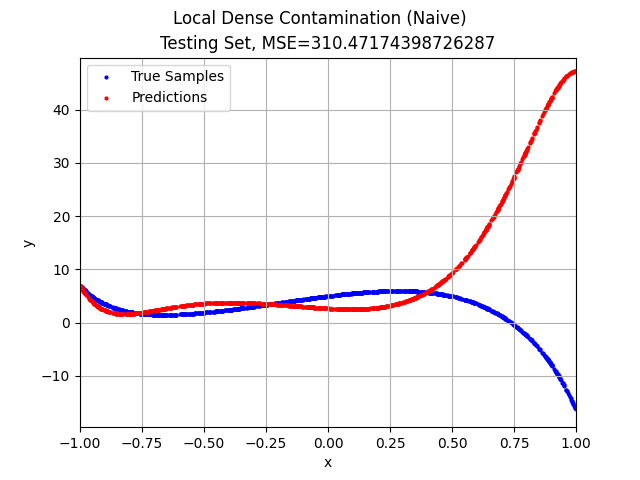
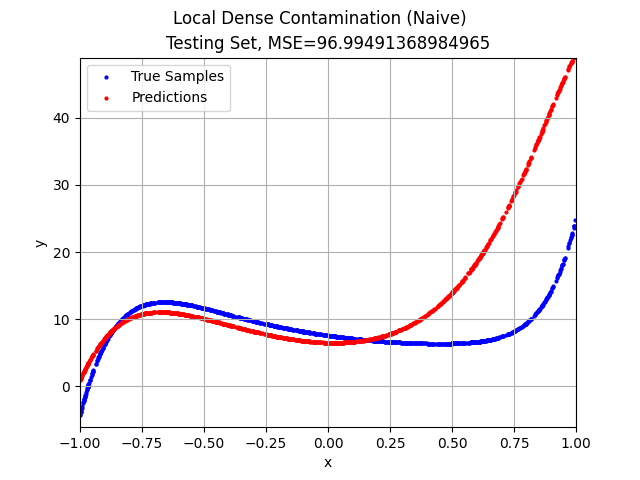
Segment Displacement Contamination

diff --git a/tests/segment_displacement_contamination.py b/tests/segment_displacement_contamination.py
@@ -10,17 +10,14 @@ rng = np.random.default_rng()
 training_size = 1000
 x_training, y_training = generate_random_samples(w, 1, training_size)
 contamination_size = ceil(epsilon * training_size)
-contamination_indices = rng.choice(training_size, contamination_size, False)
-x_contamination = rng.uniform(0.8, 1, contamination_size)
-y_contamination = rng.uniform(y_training.max() * 1.9 + y_training.min()
-                              * 1.1, y_training.max() * 2 + y_training.min(), contamination_size)
-x_training[contamination_indices] = x_contamination
-y_training[contamination_indices] = y_contamination
+contamination_indices = np.argsort(x_training)[int(
+    training_size * (1 - epsilon) * 0.5):int(training_size * (1 + epsilon) * 0.5)]
+y_training[contamination_indices] += y_training.max() - y_training.min()
 
 x_testing, y_testing = generate_random_samples(w, 0, 1000)
 
-test_name = "Local Dense Contamination"
-dirname = "local_dense_contamination"
+test_name = "Segment Displacement Contamination"
+dirname = "segment_displacement_contamination"
 markdown_str = f"| {test_name} |"
 markdown_str += test_naive(
     power,

diff --git a/tests/__main__.py b/tests/__main__.py
@@ -1,3 +1,4 @@
 import tests.random_contamination
 import tests.parallel_line_contamination
 import tests.local_dense_contamination
+import tests.segment_displacement_contamination

diff --git a/README.md b/README.md
@@ -39,6 +39,7 @@ For all the tests, we were fitting on 9-degree polynomials (with 10 mutually ind
 | Random Contamination | ![](test_results/random_contamination/naive/training.png) | ![](test_results/random_contamination/naive/testing.png) | ![](test_results/random_contamination/huber_loss/training.png) | ![](test_results/random_contamination/huber_loss/testing.png) | ![](test_results/random_contamination/epsilon_trimmed_huber_loss/training.png) | ![](test_results/random_contamination/epsilon_trimmed_huber_loss/testing.png) | ![](test_results/random_contamination/mean_kernel_preprocessor/training.png) | ![](test_results/random_contamination/mean_kernel_preprocessor/testing.png) | ![](test_results/random_contamination/epsilon_trimmed_huber_loss_with_mean_kernel_preprocessor/training.png) | ![](test_results/random_contamination/epsilon_trimmed_huber_loss_with_mean_kernel_preprocessor/testing.png) |
 | Parallel-line Contamination | ![](test_results/parallel_line_contamination/naive/training.png) | ![](test_results/parallel_line_contamination/naive/testing.png) | ![](test_results/parallel_line_contamination/huber_loss/training.png) | ![](test_results/parallel_line_contamination/huber_loss/testing.png) | ![](test_results/parallel_line_contamination/epsilon_trimmed_huber_loss/training.png) | ![](test_results/parallel_line_contamination/epsilon_trimmed_huber_loss/testing.png) | ![](test_results/parallel_line_contamination/mean_kernel_preprocessor/training.png) | ![](test_results/parallel_line_contamination/mean_kernel_preprocessor/testing.png) | ![](test_results/parallel_line_contamination/epsilon_trimmed_huber_loss_with_mean_kernel_preprocessor/training.png) | ![](test_results/parallel_line_contamination/epsilon_trimmed_huber_loss_with_mean_kernel_preprocessor/testing.png) |
 | Local Dense Contamination | ![](test_results/local_dense_contamination/naive/training.png) | ![](test_results/local_dense_contamination/naive/testing.png) | ![](test_results/local_dense_contamination/huber_loss/training.png) | ![](test_results/local_dense_contamination/huber_loss/testing.png) | ![](test_results/local_dense_contamination/epsilon_trimmed_huber_loss/training.png) | ![](test_results/local_dense_contamination/epsilon_trimmed_huber_loss/testing.png) | ![](test_results/local_dense_contamination/mean_kernel_preprocessor/training.png) | ![](test_results/local_dense_contamination/mean_kernel_preprocessor/testing.png) | ![](test_results/local_dense_contamination/epsilon_trimmed_huber_loss_with_mean_kernel_preprocessor/training.png) | ![](test_results/local_dense_contamination/epsilon_trimmed_huber_loss_with_mean_kernel_preprocessor/testing.png) |
+| Segment Displacement Contamination | ![](test_results/segment_displacement_contamination/naive/training.png) | ![](test_results/segment_displacement_contamination/naive/testing.png) | ![](test_results/segment_displacement_contamination/huber_loss/training.png) | ![](test_results/segment_displacement_contamination/huber_loss/testing.png) | ![](test_results/segment_displacement_contamination/epsilon_trimmed_huber_loss/training.png) | ![](test_results/segment_displacement_contamination/epsilon_trimmed_huber_loss/testing.png) | ![](test_results/segment_displacement_contamination/mean_kernel_preprocessor/training.png) | ![](test_results/segment_displacement_contamination/mean_kernel_preprocessor/testing.png) | ![](test_results/segment_displacement_contamination/epsilon_trimmed_huber_loss_with_mean_kernel_preprocessor/training.png) | ![](test_results/segment_displacement_contamination/epsilon_trimmed_huber_loss_with_mean_kernel_preprocessor/testing.png) |
 | <!-- GitHub does not render the table cell widths correctly --> | &nbsp;&nbsp;&nbsp;&nbsp;&nbsp;&nbsp;&nbsp;&nbsp;&nbsp;&nbsp;&nbsp;&nbsp;&nbsp;&nbsp;&nbsp;&nbsp;&nbsp;&nbsp;&nbsp;&nbsp;&nbsp;&nbsp;&nbsp;&nbsp;&nbsp;&nbsp;&nbsp;&nbsp;&nbsp;&nbsp;&nbsp;&nbsp;&nbsp;&nbsp;&nbsp;&nbsp;&nbsp;&nbsp;&nbsp;&nbsp;&nbsp;&nbsp;&nbsp;&nbsp;&nbsp;&nbsp;&nbsp;&nbsp;&nbsp;&nbsp;&nbsp;&nbsp;&nbsp;&nbsp;&nbsp;&nbsp;&nbsp;&nbsp;&nbsp;&nbsp;&nbsp;&nbsp;&nbsp;&nbsp; | &nbsp;&nbsp;&nbsp;&nbsp;&nbsp;&nbsp;&nbsp;&nbsp;&nbsp;&nbsp;&nbsp;&nbsp;&nbsp;&nbsp;&nbsp;&nbsp;&nbsp;&nbsp;&nbsp;&nbsp;&nbsp;&nbsp;&nbsp;&nbsp;&nbsp;&nbsp;&nbsp;&nbsp;&nbsp;&nbsp;&nbsp;&nbsp;&nbsp;&nbsp;&nbsp;&nbsp;&nbsp;&nbsp;&nbsp;&nbsp;&nbsp;&nbsp;&nbsp;&nbsp;&nbsp;&nbsp;&nbsp;&nbsp;&nbsp;&nbsp;&nbsp;&nbsp;&nbsp;&nbsp;&nbsp;&nbsp;&nbsp;&nbsp;&nbsp;&nbsp;&nbsp;&nbsp;&nbsp;&nbsp; | &nbsp;&nbsp;&nbsp;&nbsp;&nbsp;&nbsp;&nbsp;&nbsp;&nbsp;&nbsp;&nbsp;&nbsp;&nbsp;&nbsp;&nbsp;&nbsp;&nbsp;&nbsp;&nbsp;&nbsp;&nbsp;&nbsp;&nbsp;&nbsp;&nbsp;&nbsp;&nbsp;&nbsp;&nbsp;&nbsp;&nbsp;&nbsp;&nbsp;&nbsp;&nbsp;&nbsp;&nbsp;&nbsp;&nbsp;&nbsp;&nbsp;&nbsp;&nbsp;&nbsp;&nbsp;&nbsp;&nbsp;&nbsp;&nbsp;&nbsp;&nbsp;&nbsp;&nbsp;&nbsp;&nbsp;&nbsp;&nbsp;&nbsp;&nbsp;&nbsp;&nbsp;&nbsp;&nbsp;&nbsp; | &nbsp;&nbsp;&nbsp;&nbsp;&nbsp;&nbsp;&nbsp;&nbsp;&nbsp;&nbsp;&nbsp;&nbsp;&nbsp;&nbsp;&nbsp;&nbsp;&nbsp;&nbsp;&nbsp;&nbsp;&nbsp;&nbsp;&nbsp;&nbsp;&nbsp;&nbsp;&nbsp;&nbsp;&nbsp;&nbsp;&nbsp;&nbsp;&nbsp;&nbsp;&nbsp;&nbsp;&nbsp;&nbsp;&nbsp;&nbsp;&nbsp;&nbsp;&nbsp;&nbsp;&nbsp;&nbsp;&nbsp;&nbsp;&nbsp;&nbsp;&nbsp;&nbsp;&nbsp;&nbsp;&nbsp;&nbsp;&nbsp;&nbsp;&nbsp;&nbsp;&nbsp;&nbsp;&nbsp;&nbsp; | &nbsp;&nbsp;&nbsp;&nbsp;&nbsp;&nbsp;&nbsp;&nbsp;&nbsp;&nbsp;&nbsp;&nbsp;&nbsp;&nbsp;&nbsp;&nbsp;&nbsp;&nbsp;&nbsp;&nbsp;&nbsp;&nbsp;&nbsp;&nbsp;&nbsp;&nbsp;&nbsp;&nbsp;&nbsp;&nbsp;&nbsp;&nbsp;&nbsp;&nbsp;&nbsp;&nbsp;&nbsp;&nbsp;&nbsp;&nbsp;&nbsp;&nbsp;&nbsp;&nbsp;&nbsp;&nbsp;&nbsp;&nbsp;&nbsp;&nbsp;&nbsp;&nbsp;&nbsp;&nbsp;&nbsp;&nbsp;&nbsp;&nbsp;&nbsp;&nbsp;&nbsp;&nbsp;&nbsp;&nbsp; | &nbsp;&nbsp;&nbsp;&nbsp;&nbsp;&nbsp;&nbsp;&nbsp;&nbsp;&nbsp;&nbsp;&nbsp;&nbsp;&nbsp;&nbsp;&nbsp;&nbsp;&nbsp;&nbsp;&nbsp;&nbsp;&nbsp;&nbsp;&nbsp;&nbsp;&nbsp;&nbsp;&nbsp;&nbsp;&nbsp;&nbsp;&nbsp;&nbsp;&nbsp;&nbsp;&nbsp;&nbsp;&nbsp;&nbsp;&nbsp;&nbsp;&nbsp;&nbsp;&nbsp;&nbsp;&nbsp;&nbsp;&nbsp;&nbsp;&nbsp;&nbsp;&nbsp;&nbsp;&nbsp;&nbsp;&nbsp;&nbsp;&nbsp;&nbsp;&nbsp;&nbsp;&nbsp;&nbsp;&nbsp; | &nbsp;&nbsp;&nbsp;&nbsp;&nbsp;&nbsp;&nbsp;&nbsp;&nbsp;&nbsp;&nbsp;&nbsp;&nbsp;&nbsp;&nbsp;&nbsp;&nbsp;&nbsp;&nbsp;&nbsp;&nbsp;&nbsp;&nbsp;&nbsp;&nbsp;&nbsp;&nbsp;&nbsp;&nbsp;&nbsp;&nbsp;&nbsp;&nbsp;&nbsp;&nbsp;&nbsp;&nbsp;&nbsp;&nbsp;&nbsp;&nbsp;&nbsp;&nbsp;&nbsp;&nbsp;&nbsp;&nbsp;&nbsp;&nbsp;&nbsp;&nbsp;&nbsp;&nbsp;&nbsp;&nbsp;&nbsp;&nbsp;&nbsp;&nbsp;&nbsp;&nbsp;&nbsp;&nbsp;&nbsp; | &nbsp;&nbsp;&nbsp;&nbsp;&nbsp;&nbsp;&nbsp;&nbsp;&nbsp;&nbsp;&nbsp;&nbsp;&nbsp;&nbsp;&nbsp;&nbsp;&nbsp;&nbsp;&nbsp;&nbsp;&nbsp;&nbsp;&nbsp;&nbsp;&nbsp;&nbsp;&nbsp;&nbsp;&nbsp;&nbsp;&nbsp;&nbsp;&nbsp;&nbsp;&nbsp;&nbsp;&nbsp;&nbsp;&nbsp;&nbsp;&nbsp;&nbsp;&nbsp;&nbsp;&nbsp;&nbsp;&nbsp;&nbsp;&nbsp;&nbsp;&nbsp;&nbsp;&nbsp;&nbsp;&nbsp;&nbsp;&nbsp;&nbsp;&nbsp;&nbsp;&nbsp;&nbsp;&nbsp;&nbsp; | &nbsp;&nbsp;&nbsp;&nbsp;&nbsp;&nbsp;&nbsp;&nbsp;&nbsp;&nbsp;&nbsp;&nbsp;&nbsp;&nbsp;&nbsp;&nbsp;&nbsp;&nbsp;&nbsp;&nbsp;&nbsp;&nbsp;&nbsp;&nbsp;&nbsp;&nbsp;&nbsp;&nbsp;&nbsp;&nbsp;&nbsp;&nbsp;&nbsp;&nbsp;&nbsp;&nbsp;&nbsp;&nbsp;&nbsp;&nbsp;&nbsp;&nbsp;&nbsp;&nbsp;&nbsp;&nbsp;&nbsp;&nbsp;&nbsp;&nbsp;&nbsp;&nbsp;&nbsp;&nbsp;&nbsp;&nbsp;&nbsp;&nbsp;&nbsp;&nbsp;&nbsp;&nbsp;&nbsp;&nbsp; | &nbsp;&nbsp;&nbsp;&nbsp;&nbsp;&nbsp;&nbsp;&nbsp;&nbsp;&nbsp;&nbsp;&nbsp;&nbsp;&nbsp;&nbsp;&nbsp;&nbsp;&nbsp;&nbsp;&nbsp;&nbsp;&nbsp;&nbsp;&nbsp;&nbsp;&nbsp;&nbsp;&nbsp;&nbsp;&nbsp;&nbsp;&nbsp;&nbsp;&nbsp;&nbsp;&nbsp;&nbsp;&nbsp;&nbsp;&nbsp;&nbsp;&nbsp;&nbsp;&nbsp;&nbsp;&nbsp;&nbsp;&nbsp;&nbsp;&nbsp;&nbsp;&nbsp;&nbsp;&nbsp;&nbsp;&nbsp;&nbsp;&nbsp;&nbsp;&nbsp;&nbsp;&nbsp;&nbsp;&nbsp; |
 
 </div>
